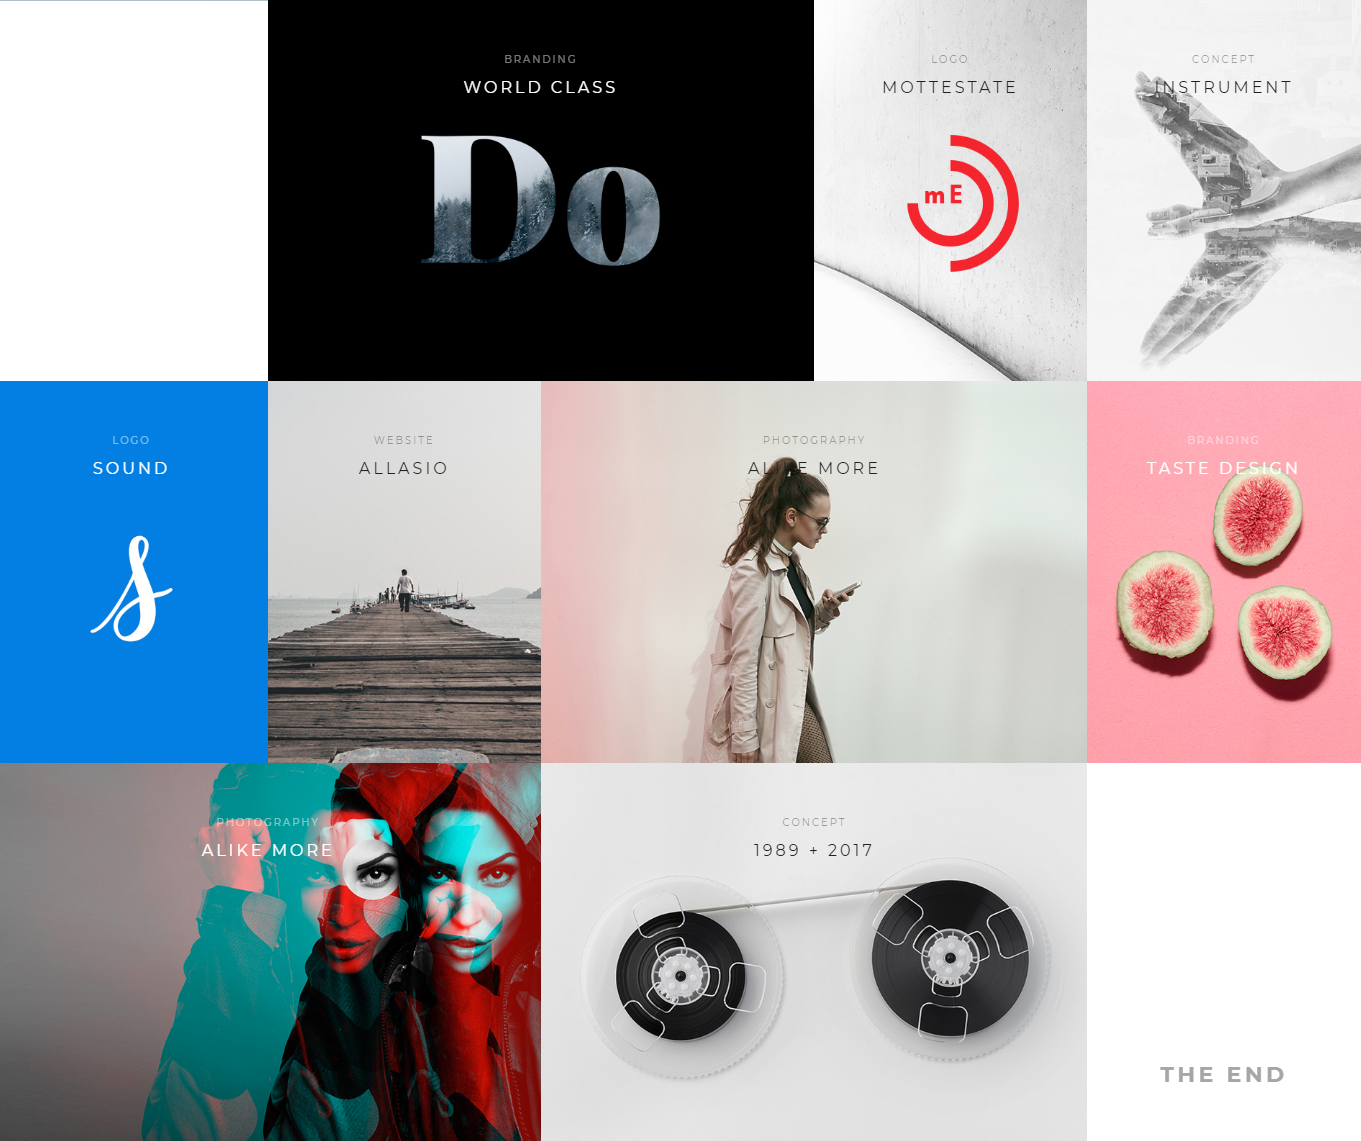
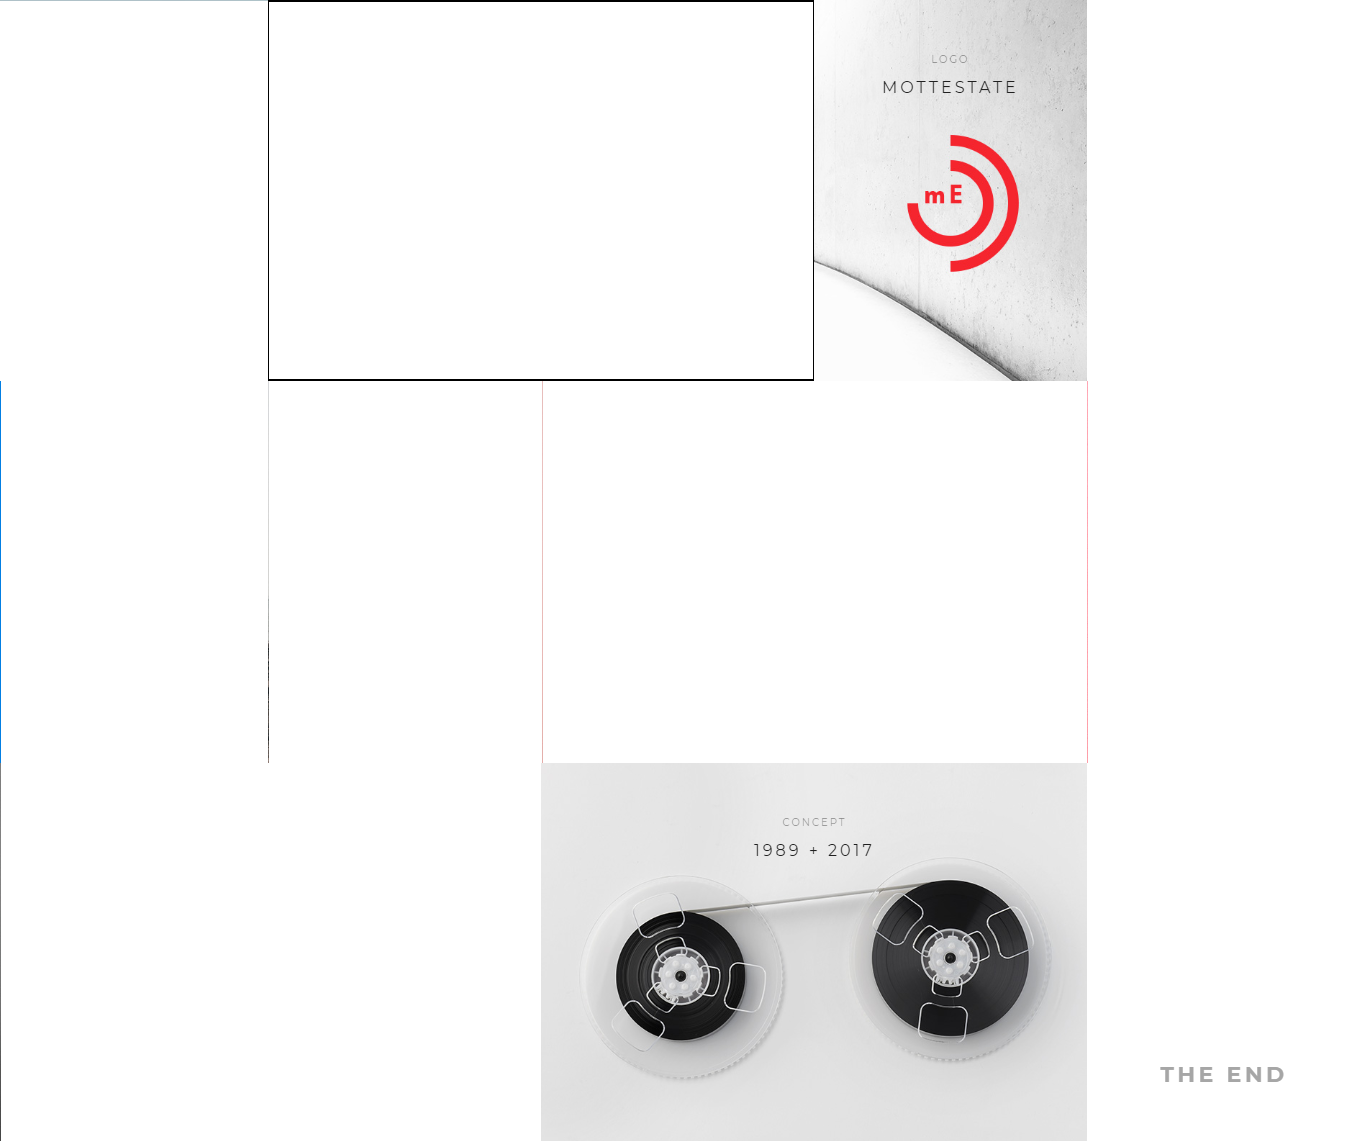
5 sections over

diff --git a/index.html b/index.html
@@ -36,7 +36,7 @@
         <div class="container sub-heading">
             <h6>MAKE IDEAS GREAT</h6>
             <h1>COLORIT</h1>
-            <div class="navigator-button">
+            <div class="navigator-button-1">
                 <div><i class="fas fa-less-than"></i>&emsp;&emsp;&emsp;&emsp;<i class="fas fa-greater-than"></i></div>
             </div>
 
@@ -45,7 +45,7 @@
 
     <div class="container-fluid showreel">
         <div class="row about-company">
-            <div class="col-sm-4">
+            <div class="col-lg-4">
                 <div class="company-description">
                     <h6>TOP CLASS DESIGN</h6>
                     <h2>CREATIVE <br> AGENCY</h2>
@@ -60,16 +60,88 @@
                 </div>
 
             </div>
-            <div class="col-sm-8">
-                <img class="img-fluid video " src="/img/showreel.jpg" alt="">
+            <div class="col-lg-8">
+                <img class="img-fluid video" src="/img/showreel.jpg" alt="">
             </div>
         </div>
     </div>
     <div class="container-fluid collage">
-
+        <div class="d-flex flex-wrap">
+            <div class="d-flex flex-row">
+                <img class="img-fluid" src="/img/c1.jpg" alt="">
+                <img class="img-fluid" src="/img/c2.jpg" alt="">
+                <img class="img-fluid" src="/img/c3.jpg" alt="">
+                <img class="img-fluid" src="/img/c4.jpg" alt="">
+            </div>
+            <div class="d-flex flex-row">
+                <img class="img-fluid" src="/img/c5.jpg" alt="">
+                <img class="img-fluid" src="/img/c6.jpg" alt="">
+                <img class="img-fluid" src="/img/c7.jpg" alt="">
+                <img class="img-fluid" src="/img/c8.jpg" alt="">
+            </div>
+            <div class="d-flex flex-row">
+                <img class="img-fluid" src="/img/c9.jpg" alt="">
+                <img class="img-fluid" src="/img/c10.jpg" alt="">
+                <img class="img-fluid" src="/img/c11.jpg" alt="">
+            </div>
+        </div>
     </div>
     <div class="container-fluid technologies">
+        <div class="row good-things-1">
+            <div class="col-md-4">
+                <div class="good-things-title">
 
+                    <h6>GREAT TOOLS TO HELP</h6>
+                    <h3>WE'RE GOOD AT</h3>
+                </div>
+            </div>
+            <div class="col-md-4">
+                <div class="retina-display">
+                    <i class="far fa-gem fa-2x"></i>
+                    <h6>RETINA DISPLAY</h6>
+                    <P>Lorem ipsum, dolor sit amet consectetur adipisicing elit.
+                        Quo, unde. Aut temporibus soluta, quibusdam aliquid maxime
+                        consequuntur repudiandae ad suscipit ratione distinctio q
+                        alias molestias dicta cupiditate</P>
+                </div>
+            </div>
+            <div class="col-md-4">
+                <div class="industrial-design">
+                    <i class="fab fa-react fa-2x"></i>
+                    <h6>INDUSTRIAL DESIGN</h6>
+                    <P>Lorem ipsum, dolor sit amet consectetur adipisicing elit.
+                        Quo, unde. Aut temporibus soluta, quibusdam aliquid maxime
+                        consequuntur repudiandae ad suscipit ratione distinctio q
+                        alias molestias dicta cupiditate</P>
+                </div>
+            </div>
+
+        </div>
+        <div class="row good-things-2">
+            <div class="col-md-4">
+
+            </div>
+            <div class="col-md-4">
+                <div class="video-tutorial">
+                    <i class="far fa-file-video fa-2x"></i>
+                    <h6>VIDEO TUTORIAL</h6>
+                    <P>Lorem ipsum, dolor sit amet consectetur adipisicing elit.
+                        Quo, unde. Aut temporibus soluta, quibusdam aliquid maxime
+                        consequuntur repudiandae ad suscipit ratione distinctio q
+                        alias molestias dicta cupiditate</P>
+                </div>
+            </div>
+            <div class="col-md-4">
+                <div class="save-time">
+                    <i class="fas fa-coffee fa-2x"></i>
+                    <h6>SAVE YOUR TIME</h6>
+                    <P>Lorem ipsum, dolor sit amet consectetur adipisicing elit.
+                        Quo, unde. Aut temporibus soluta, quibusdam aliquid maxime
+                        consequuntur repudiandae ad suscipit ratione distinctio q
+                        alias molestias dicta cupiditate</P>
+                </div>
+            </div>
+        </div>
     </div>
     <div class="container-fluid">
 

diff --git a/style.css b/style.css
@@ -1,4 +1,19 @@
-
+/*Media queries*/
+@media only screen and (max-width: 992px){
+    .collage{
+        margin-top: 15rem !important;
+        
+    }
+    .company-description{
+        margin-top: 1rem !important;
+    }
+    }
+   
+    @media only screen and (min-width: 768px) {
+        
+    }
+    body {
+        font-family: 'Montserrat', sans-serif; }
 
 /*1.Banner design*/
 .menu-btn {
@@ -49,7 +64,10 @@
 .sub-heading>h6{
     font-weight: 200;
 }
-.navigator-button{
+.sub-heading>h1{
+    font-weight: 900;
+}
+.navigator-button-1{
     margin-top: 3rem;
 }
 
@@ -98,4 +116,51 @@
 .play{
     display:flex;
     align-items: center;
+}
+
+/*3.COLLAGE*/
+.collage{
+    overflow: hidden;
+    width: 100%;
+    padding-left: 0;
+    padding-right: 0;
+}
+
+/*4.EXPERTISE*/
+.technologies{
+    height: 40rem;
+}
+.good-things-1{
+   margin-top: 10rem; 
+}
+.good-things-2{
+    margin-top: 6rem;
+}
+.good-things-title{
+    margin-left: 3rem;
+}
+.good-things-title>h3{
+    font-weight: 900;
+    letter-spacing: 0.5rem;
+}
+.good-things-title>h6{
+    color: grey;
+    font-size: ;
+}
+.retina-display>p,.industrial-design>p,.video-tutorial>p,.save-time>p{
+    color:grey;
+}
+.retina-display,.industrial-design,.video-tutorial,.save-time{
+    padding-left: 4rem;
+}
+.retina-display>i,.industrial-design>i,.video-tutorial>i,.save-time>i{
+    color:lightgrey;
+    margin-bottom: 2rem;
+}
+.retina-display>h6,.industrial-design>h6,.video-tutorial>h6,.save-time>h6{
+font-size: 9pt;
+font-weight:bolder;
+color: black;
+letter-spacing: 0.2rem;
+
 }
